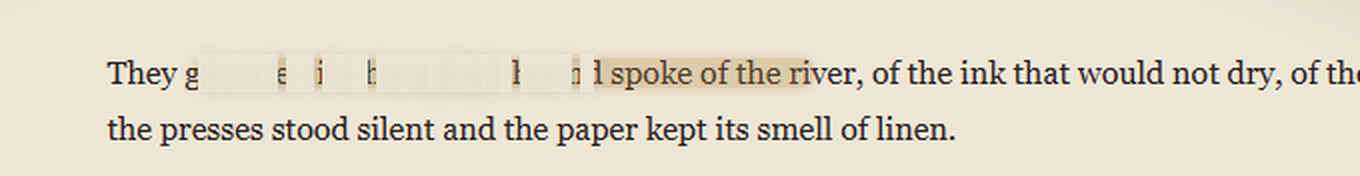
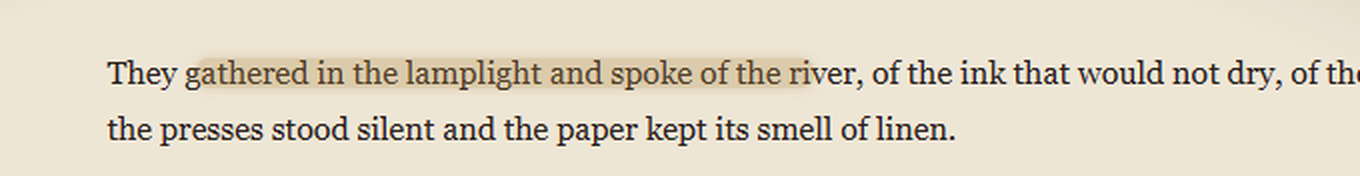
fix(selection): 逐字层去重、盖纸出血、字体逐项抄；补稳态预览图
- 同一格只留一个 span（byCell）：两次选区变化落在同一格时旧的要先撤掉，
  否则同一处会画两层字，新盖纸还会盖掉旧墨，看起来像缺字
- 盖纸四周出血 1–2px：字母的墨会溢出它的字宽盒子，不外扩就会在格边留一道
  原字的竖缝，远看像重影（上游按格子画、格子比字宽，所以没这个问题）
- 字体改为逐项复制（fontFamily/fontSize/fontWeight/fontStyle/letterSpacing），
  不用 font 简写：简写一旦解析失败会整条被丢掉，字悄悄换成继承来的字体
- 三点墨的 animation-delay 用 inherit 跟上本字的错峰
- docs/previews/ink-selection.png 换成稳态（洗色）图；说明化开只在 680ms 内发生

Changed region(s): [[0.1235, 0.3125, 0.4632, 0.5114]]

diff --git a/packages/dsh-nocturne/lib/client.js b/packages/dsh-nocturne/lib/client.js
@@ -4,8 +4,8 @@
  * 纸、灯、辉光三层的渲染代码由 tools/build.mjs 从 sample/nocturne-desk.html 抽取；
  * 上游配方来自 Chaosnap/Typewriter-Nocturne（MIT），随包保留其版权行。
  *
- *   核心 2146 行 · 适配 755 行 · 样式 70 行
- *   样张 sample/nocturne-desk.html（134357 bytes）
+ *   核心 2171 行 · 适配 755 行 · 样式 70 行
+ *   样张 sample/nocturne-desk.html（135967 bytes）
  */
 window.__ModuleLoader__.load({
   id: 'dsh-nocturne',
@@ -1527,6 +1527,8 @@ class SelectionInk {
     this.cells = [];
     this.washKey = 'off';
     this.timers = [];
+    /** 同一格只留一个：两次选区变化落在同一格时，旧的要先撤掉，否则会重复叠字。 */
+    this.byCell = new Map();
     this.range = typeof Range === 'function' ? document.createRange() : null;
   }
 
@@ -1583,6 +1585,7 @@ class SelectionInk {
     this.inkEls = [];
     this.cells = [];
     this.wash = [];
+    if (this.byCell) this.byCell.clear();
     this.live = false;
     this.prev = null;
     this.washKey = 'off';
@@ -1714,8 +1717,11 @@ class SelectionInk {
         const hidden = computed.visibility === 'hidden' || computed.display === 'none'
           || Number(computed.opacity) === 0;
         look = hidden ? null : {
-          font: computed.fontStyle + ' ' + computed.fontWeight + ' '
-            + computed.fontSize + ' ' + computed.fontFamily,
+          style: computed.fontStyle,
+          weight: computed.fontWeight,
+          size: computed.fontSize,
+          family: computed.fontFamily,
+          spacing: computed.letterSpacing,
           color: computed.color
         };
         looks.set(holder, look);
@@ -1736,10 +1742,16 @@ class SelectionInk {
         el.style.top = rect.top + 'px';
         el.style.width = rect.width + 'px';
         el.style.height = rect.height + 'px';
-        el.style.font = look.font;
+        el.style.fontFamily = look.family;
+        el.style.fontSize = look.size;
+        el.style.fontWeight = look.weight;
+        el.style.fontStyle = look.style;
+        // letter-spacing 是排版的一部分：少抄一格，后面每个字都会往下漂。
+        if (look.spacing && look.spacing !== 'normal') el.style.letterSpacing = look.spacing;
         el.style.lineHeight = rect.height + 'px';
         el.style.color = look.color;
         el.style.animationDelay = delay;
+        el.dataset.cell = Math.round(rect.left) + ':' + Math.round(rect.top);
         const cover = document.createElement('i');
         cover.className = 'dn-sel-cover';
         cover.style.animationDelay = delay;
@@ -1748,8 +1760,17 @@ class SelectionInk {
         ink.style.animationDelay = delay;
         ink.textContent = char;
         el.append(cover, ink);
+        // 这一格上一轮已经画过就先撤掉：重复的 span 会让字叠两层，
+        // 而且新盖纸会盖掉旧墨，看起来像缺字。
+        const key = Math.round(rect.left) + ':' + Math.round(rect.top);
+        const previous = this.byCell.get(key);
+        if (previous) {
+          previous.remove();
+          this.inkEls = this.inkEls.filter((item) => item.el !== previous);
+        }
         this.layer.appendChild(el);
         this.inkEls.push({el: el});
+        this.byCell.set(key, el);
         made.push(el);
         count += 1;
       }
@@ -1762,7 +1783,11 @@ class SelectionInk {
   schedule(made) {
     const life = SELECT_DISSOLVE_MS + SELECT_MAX_STAGGER_MS + 120;
     const timer = setTimeout(() => {
-      for (const el of made) el.remove();
+      for (const el of made) {
+        el.remove();
+        const key = el.dataset.cell;
+        if (key && this.byCell.get(key) === el) this.byCell.delete(key);
+      }
       this.inkEls = this.inkEls.filter((item) => made.indexOf(item.el) < 0);
       this.cells = this.inkEls.map((item) => item.el);
       this.timers = this.timers.filter((id) => id !== timer);
@@ -2161,7 +2186,7 @@ class ScrollClip {
   }
 }
 
-const CSS_TEXT = "/* dsh-nocturne —— 纸的配色由 token 决定，材质由 canvas 决定。\n   这里只做两件事：把 DSH 的语义别名换成纸与墨；给两片 canvas 找位置。\n   颜色取自 Typewriter-Nocturne 的 papers.ts（MIT）。 */\n\nhtml, :root {\n  --dn-paper: #efdfbd;\n  --dn-ink: #2a2019;\n  --dn-ink-muted: #6b5f52;\n  --dn-room: #241a14;\n  --dn-room-edge: #070504;\n  --dn-gilt: #6f5420;\n  --dn-light-rgb: 255 210 154;\n  --dn-metal-lo: #5e431c;\n  --dn-metal-hi: #f3dca4;\n  --dn-metal: #b8904c;\n  /* 缮写室面板用到的字族：宿主不一定有，给出与样张一致的回落链 */\n  --font-ui: \"EB Garamond\", \"Iowan Old Style\", Palatino, Georgia, serif;\n  --font-display: \"Cormorant Garamond\", \"EB Garamond\", Georgia, serif;\n  --font-mono: var(--dsh-font-family-code, ui-monospace, monospace);\n\n  /* 配色 token 不写在这里：运行时由 applyTokens() 内联写入并带 !important。\n     写在这里会反过来压过内联更新，导致换纸只换画布、不换界面底色。 */\n\n  /* 字体：衬线正文，等宽复古代码。字体文件不随包分发，走系统栈回落。 */\n  --dsh-font-family-text: \"EB Garamond\", \"Iowan Old Style\", \"Palatino Linotype\", Palatino,\n    Georgia, \"Source Han Serif SC\", \"Songti SC\", \"Noto Serif CJK SC\", serif !important;\n  --dsh-font-family-code: \"Courier Prime\", \"IBM Plex Mono\", \"Courier New\",\n    \"DejaVu Sans Mono\", ui-monospace, monospace !important;\n}\n\n/* 整扇窗就是这张纸。没被画到的地方也必须落到纸色上——否则留给 `html` 的\n   默认底会把正文区露成黑洞（第一次装载测试就是这么翻车的）。 */\n/* 纸的底色挂在 --dn-sheet 上：接管配色时是纸色，只让位时是 transparent（宿主自己画）。 */\nhtml, body { background: var(--dn-sheet, transparent) !important; }\n\n/* 两片 canvas：直接挂在 body 下，不能包一层带 z-index 的容器——\n   那会给它们造一个隔离栈，multiply 就再也合不到页面上（实测见 docs/nocturne.md）。 */\ncanvas[data-dn=\"paper\"], canvas[data-dn=\"glow\"] {\n  position: fixed;\n  left: 0;\n  top: 0;\n  display: block;\n  pointer-events: none;\n  transform-origin: 0 0;\n}\ncanvas[data-dn=\"paper\"] {\n  mix-blend-mode: multiply;\n  z-index: 2147482000;\n}\ncanvas[data-dn=\"glow\"] {\n  mix-blend-mode: screen;\n  z-index: 2147482001;\n}\n\n/* 纸的四边压暗，给出\"一张纸\"的厚度；比 TN 的 #vignette 更贴边，\n   因为这里的纸是整扇窗。 */\nhtml::after {\n  content: \"\";\n  position: fixed;\n  inset: 0;\n  z-index: 2147482002;\n  pointer-events: none;\n  background: radial-gradient(ellipse 92% 88% at 50% 46%, transparent 52%, rgba(0, 0, 0, .42) 100%);\n}\n\n/* 缮写室是\"器物\"，不是纸上的字：它悬在纸光之上，不被灯压暗——\n   与上游一致，Studio 属于窗框而不属于纸面。 */\n.dn-studio { z-index: 2147483000; }\n.dn-handle { z-index: 2147482999; opacity: .55; }\n\n\n.dn-caret{\n  position:fixed; left:0; top:0; z-index: 2147481999;\n  display:none; pointer-events:none; will-change:transform;\n  --dn-ink-size:16px;\n  --dn-ink-weight:400;\n}\n.dn-ink-blot,\n.dn-ink-halo{\n  position:absolute; inset:7% 0.5px;\n  background:var(--dn-caret-ink, #3a2c20);\n}\n.dn-ink-blot{\n  border-radius:22% 14% 18% 12% / 12% 20% 10% 18%;\n  box-shadow:\n    inset 0 0 0 .5px rgba(0,0,0,.22),\n    inset 0 0 3px rgba(0,0,0,.28),\n    0 0 1.2px var(--dn-caret-ink, #3a2c20);\n  filter:blur(.3px);\n}\n.dn-ink-halo{\n  border-radius:40%;\n  opacity:0;\n  filter:blur(2.5px);\n}\n.dn-ink-glyph{\n  position:absolute; inset:0;\n  display:flex; align-items:center; justify-content:center;\n  color:var(--dsw-alias-bg-base, #efdfbd);\n  font-family:var(--dsh-font-family-code, ui-monospace, monospace);\n  font-size:var(--dn-ink-size);\n  font-weight:var(--dn-ink-weight);\n  line-height:1; white-space:pre;\n  font-variant-ligatures:none;\n}\n/* 失焦时墨退掉，只留一个淡淡的格子轮廓。 */\n.dn-caret[data-focused=\"false\"] .dn-ink-blot,\n.dn-caret[data-focused=\"false\"] .dn-ink-halo,\n.dn-caret[data-focused=\"false\"] .dn-ink-glyph{ display:none }\n.dn-caret[data-focused=\"false\"]::after{\n  content:\"\"; position:absolute; inset:7% .5px;\n  border:1px solid var(--dn-caret-ink, #3a2c20); border-radius:2px; opacity:.45;\n}\n.dn-caret[data-appearance=\"dark\"] .dn-ink-blot{\n  box-shadow:\n    inset 0 0 0 .5px rgba(255,255,255,.25),\n    inset 0 0 3px rgba(255,255,255,.3),\n    0 0 1.2px var(--dn-caret-ink, #3a2c20);\n}\n/* ── 羽毛笔光标：形状、渐变、摆动、光晕都照搬上游 .tn-quill ─────────────── */\n.dn-quill{\n  position:fixed; left:0; top:0; z-index:1;\n  display:none; pointer-events:none; will-change:transform;\n  --dn-quill-edge:#120e0c;\n  --dn-quill-body:#2b2420;\n  --dn-quill-sheen:#5f5753;\n  --dn-quill-barb:rgba(168,152,138,.42);\n  --dn-quill-rachis:#e4d8c0;\n  --dn-quill-down:rgba(70,60,54,.65);\n  filter:drop-shadow(.8px 1.6px 1px rgba(0,0,0,.3));\n  animation:dn-quill-breathe 1.2s ease-in-out infinite alternate;\n}\n.dn-quill[data-appearance=\"dark\"]{\n  --dn-quill-edge:#9d9485;\n  --dn-quill-body:#ebe4d6;\n  --dn-quill-sheen:#fffdf8;\n  --dn-quill-barb:rgba(140,128,108,.5);\n  --dn-quill-rachis:#fffdf6;\n  --dn-quill-down:rgba(236,229,216,.75);\n}\n.dn-quill svg{display:block; width:100%; height:100%; overflow:visible}\n.dn-quill-sway{transform-box:view-box; transform-origin:0 0; animation:dn-quill-sway 3.4s ease-in-out infinite alternate}\n.dn-quill-vane{fill:url(#dn-quill-vane)}\n.dn-quill-barbs{fill:none; stroke:var(--dn-quill-barb); stroke-width:.28; stroke-linecap:round}\n.dn-quill-rachis{fill:var(--dn-quill-rachis)}\n.dn-quill-rachis-light{fill:none; stroke:#fff; stroke-width:.22; opacity:.55}\n.dn-quill-down{fill:none; stroke:var(--dn-quill-down); stroke-width:.35; stroke-linecap:round}\n.dn-quill-engraving{fill:none; stroke:var(--dn-metal-lo); stroke-width:.3}\n.dn-quill-hole{fill:var(--dn-metal-lo)}\n.dn-quill-shine{fill:#fff; opacity:.2; animation:dn-quill-shine 2.8s ease-in-out infinite}\n.dn-quill-glint{fill:#fff; opacity:0; animation:dn-quill-glint 2.8s ease-in-out infinite}\n.dn-quill[data-focused=\"false\"]{opacity:.4; animation:none}\n.dn-quill[data-focused=\"false\"] .dn-quill-sway,\n.dn-quill[data-focused=\"false\"] .dn-quill-shine,\n.dn-quill[data-focused=\"false\"] .dn-quill-glint{animation:none}\n@keyframes dn-quill-breathe{from{opacity:1} to{opacity:.62}}\n@keyframes dn-quill-sway{from{transform:rotate(-1.6deg)} to{transform:rotate(1.6deg)}}\n@keyframes dn-quill-shine{0%{transform:translateY(0)} 100%{transform:translateY(-46px)}}\n@keyframes dn-quill-glint{\n  0%,72%{opacity:0}\n  80%{opacity:.9}\n  88%{opacity:.15}\n  100%{opacity:0}\n}\n\n/* ── 缮写室 Studio：一张悬在桌上的深色玻璃面板 ─────────────────────────── */\n.dn-studio{\n  position:fixed; z-index:40; top:52px; right:18px;\n  width:296px; max-height:calc(100% - 88px); overflow-y:auto;\n  padding:16px 18px 18px;\n  border:1px solid rgba(176,138,74,.35);\n  border-radius:12px;\n  background:rgba(22,16,12,.9);\n  backdrop-filter:blur(12px);\n  box-shadow:0 24px 60px -20px rgba(0,0,0,.8);\n  color:#f1e6cf;\n  font-family:var(--font-ui);\n  display:none;\n}\n.dn-studio[data-open=\"true\"]{display:block}\n.dn-studio .eyebrow{\n  font-variant:small-caps; letter-spacing:.2em; font-size:11px;\n  color:rgba(241,230,207,.62);\n}\n.dn-studio h2{\n  margin:0 0 10px;\n  font-family:var(--font-display); font-style:italic; font-weight:500;\n  font-size:23px; line-height:1.2; text-wrap:balance;\n}\n.dn-studio .group{\n  margin-top:13px; padding-top:11px;\n  border-top:1px solid rgba(176,138,74,.28);\n  display:grid; gap:9px;\n}\n.dn-studio .group h3{\n  margin:0; font-weight:500; font-style:italic; font-size:16px;\n}\n.dn-studio .grid{display:grid; grid-template-columns:repeat(3, 1fr); gap:5px}\n.dn-studio .grid.two{grid-template-columns:repeat(2, 1fr)}\n.dn-studio button.choice{\n  padding:5px 4px 6px;\n  border:1px solid rgba(176,138,74,.3); border-radius:6px;\n  background:transparent; color:#f1e6cf;\n  font-family:var(--font-ui); font-size:12.5px; line-height:1.2;\n  cursor:pointer; display:grid; gap:4px; justify-items:stretch;\n}\n.dn-studio button.choice[aria-pressed=\"true\"]{\n  border-color:#b08a4a;\n  box-shadow:inset 0 0 0 1px #b08a4a;\n}\n.dn-studio button.choice:focus-visible{outline:1px dotted #b08a4a; outline-offset:2px}\n.dn-studio .swatch{\n  height:20px; border-radius:3px;\n  box-shadow:inset 0 0 0 1px rgba(0,0,0,.35);\n}\n.dn-studio .slider{display:grid; gap:2px}\n.dn-studio .head{display:flex; justify-content:space-between; align-items:center}\n.dn-studio .label,\n.dn-studio .value{\n  font-family:var(--dsh-font-family-code, ui-monospace, monospace); font-size:10.5px;\n  letter-spacing:.14em; text-transform:uppercase;\n  color:rgba(241,230,207,.62); font-variant-numeric:tabular-nums;\n}\n.dn-studio .value{color:#f1e6cf; letter-spacing:.04em}\n.dn-studio input[type=\"range\"]{\n  -webkit-appearance:none; appearance:none;\n  width:100%; height:16px; margin:0; cursor:pointer; background:\n    linear-gradient(rgba(241,230,207,.62), rgba(241,230,207,.62)) 0 50% / 100% 1px no-repeat,\n    repeating-linear-gradient(90deg, rgba(241,230,207,.62) 0 1px, transparent 1px 10%) 0 50% / 100% 8px no-repeat;\n}\n.dn-studio input[type=\"range\"]::-webkit-slider-thumb{\n  -webkit-appearance:none; width:9px; height:16px; border-radius:2px;\n  border:1px solid #5e431c;\n  background:linear-gradient(90deg, #f3dca4, #b8904c 55%, #5e431c);\n  box-shadow:0 1px 3px rgba(0,0,0,.5);\n}\n.dn-studio input[type=\"range\"]:focus-visible{outline:1px dotted #b08a4a; outline-offset:3px}\n.dn-studio .switch{display:flex; justify-content:space-between; align-items:center}\n.dn-studio .toggle{\n  position:relative; width:36px; height:19px; flex:none;\n  border-radius:10px; border:1px solid rgba(176,138,74,.3);\n  background:transparent; cursor:pointer; padding:0;\n}\n.dn-studio .toggle::after{\n  content:\"\"; position:absolute; top:2px; left:2px;\n  width:13px; height:13px; border-radius:50%;\n  background:rgba(241,230,207,.62);\n  transition:transform 140ms ease;\n}\n.dn-studio .toggle[aria-checked=\"true\"]{border-color:#b08a4a; background:rgba(255,215,154,.12)}\n.dn-studio .toggle[aria-checked=\"true\"]::after{\n  transform:translateX(17px);\n  background:radial-gradient(circle at 35% 35%, #f3dca4, #b8904c 60%, #5e431c);\n}\n.dn-studio button.reset{\n  width:100%; padding:6px 8px;\n  border:1px solid rgba(176,138,74,.45); border-radius:6px;\n  background:rgba(255,215,154,.1); color:#f3dca4;\n  font-family:var(--font-ui); font-size:13px; cursor:pointer;\n}\n.dn-studio button.reset:hover{background:rgba(255,215,154,.18)}\n.dn-studio button.reset:focus-visible{outline:1px dotted #b08a4a; outline-offset:2px}\n.dn-studio .note{\n  margin:0; font-size:12px; line-height:1.5;\n  color:rgba(241,230,207,.55);\n}\n.dn-studio .close{\n  position:absolute; top:10px; right:10px;\n  width:22px; height:22px; display:grid; place-items:center;\n  border:1px solid transparent; border-radius:5px;\n  background:transparent; color:rgba(241,230,207,.62);\n  font-size:15px; line-height:1; cursor:pointer;\n}\n.dn-studio .close:hover{color:#f1e6cf; border-color:rgba(176,138,74,.4)}\n\n/* 右下角那个把手：平时很淡，悬停才亮起来 */\n.dn-handle{\n  position:fixed; z-index:39; right:18px; bottom:16px;\n  display:flex; align-items:center; gap:7px;\n  padding:7px 11px;\n  border:1px solid rgba(176,138,74,.32); border-radius:8px;\n  background:rgba(22,16,12,.9); backdrop-filter:blur(12px);\n  color:rgba(241,230,207,.66);\n  font-family:var(--dsh-font-family-code, ui-monospace, monospace); font-size:10.5px;\n  letter-spacing:.16em; text-transform:uppercase;\n  cursor:pointer; opacity:.4;\n  transition:opacity 200ms ease;\n}\n.dn-handle:hover,.dn-handle:focus-visible{opacity:1}\n.dn-handle[aria-expanded=\"true\"]{opacity:0; pointer-events:none}\n.dn-handle:focus-visible{outline:1px dotted #b08a4a; outline-offset:2px}\n.dn-handle svg{width:13px; height:13px; fill:none; stroke:currentColor; stroke-width:1.3; stroke-linecap:round}\n\n@media (max-width:720px){\n  .dn-studio{left:14px; right:14px; width:auto; top:auto; bottom:62px; max-height:52%}\n}\n@media (prefers-reduced-motion:reduce){\n  .dn-quill,.dn-quill-sway,.dn-quill-shine,.dn-quill-glint{animation:none}\n  .dn-handle,.dn-studio .toggle::after{transition:none}\n}\n\n\n/* ── 选区：墨水溶解（上游 selection-layer.ts 的 DOM 版） ────────────────\n   ink    ：原生的平涂高亮隐去，改成洗色 + 逐字化开的墨\n   classic：留浏览器的平涂高亮，只是把颜色换成主题的选色 */\nhtml[data-dn-sel=\"ink\"] ::selection{ background:transparent !important }\nhtml[data-dn-sel=\"classic\"] ::selection{ background:var(--dn-wash, rgba(52, 64, 112, .2)); color:inherit }\nhtml[data-dn-sel=\"classic\"]::-moz-selection{ background:var(--dn-wash, rgba(52, 64, 112, .2)); color:inherit }\n\n/* 选区层：铺在正文之上、纸光之下——z-index 与羽毛笔同档，所以灯会把洗色一起照亮，\n   洗色才像洇进纸里的墨，而不是浮在纸上的一块色片。\n   动画全部交给 CSS：拖动时主线程不必逐帧画。 */\n.dn-select{ position:fixed; left:0; top:0; z-index:1; pointer-events:none; overflow:visible }\n.dn-sel-wash{\n  position:absolute; display:block;\n  border-radius:9px;\n  background:var(--dn-wash, rgba(52, 64, 112, .2));\n  box-shadow:0 0 6px var(--dn-wash, rgba(52, 64, 112, .2));\n}\n.dn-sel{\n  position:absolute; display:block; white-space:pre; overflow:visible;\n  transform-origin:50% 50%;\n}\n/* 盖纸：先把这一格的字压住，末段再让开。 */\n.dn-sel-cover{\n  position:absolute; inset:0;\n  background:var(--dn-paper, #efdfbd);\n  opacity:0;\n  animation:dn-sel-cover 680ms ease-in-out both;\n}\n/* 墨：放大、虚化、淡到 15%，再聚拢复原。三段比例照上游 30 / 50 / 70。 */\n.dn-sel-ink{\n  position:relative; display:block; white-space:pre;\n  font:inherit; color:inherit;\n  animation:dn-sel-ink 680ms ease-in-out both;\n}\n/* 三点墨：靠一个伪元素的 box-shadow 画出三颗，随 transform 一起散开又回来。 */\n.dn-sel-ink::after{\n  content:\"\"; position:absolute; left:50%; top:50%;\n  width:1.4px; height:1.4px; margin:-.7px 0 0 -.7px;\n  border-radius:50%; background:currentColor;\n  box-shadow:7px 2px 0 currentColor, -5px 6px 0 currentColor, 2px -7px 0 currentColor;\n  opacity:0;\n  animation:dn-sel-speck 680ms ease-in-out both;\n}\n@keyframes dn-sel-cover{ 0%{opacity:0} 30%{opacity:1} 70%{opacity:1} 100%{opacity:0} }\n@keyframes dn-sel-ink{\n  0%{transform:scale(1); filter:blur(0); opacity:1}\n  50%{transform:scale(1.18); filter:blur(5px); opacity:.15}\n  100%{transform:scale(1); filter:blur(0); opacity:1}\n}\n@keyframes dn-sel-speck{\n  0%{transform:scale(0); opacity:0}\n  50%{transform:scale(1); opacity:.55}\n  100%{transform:scale(0); opacity:0}\n}\n@media (prefers-reduced-motion:reduce){ .dn-sel{ display:none } }\n\n/* ── 纸夹：一枚 Gem 夹夹在纸的右缘 ────────────────────────────────────\n   外圈在纸前，内舌在纸后（只留下压住纸面的一道痕），弯头探出纸外。\n   金属丝按\"上左受光\"的管状上色：暗边 + 本体 + 沿光侧的高光。 */\n.dn-scroll{\n  position:fixed; left:0; top:0;\n  touch-action:none; cursor:grab; will-change:transform;\n}\n.dn-scroll[hidden]{ display:none }\n.dn-scroll:active{ cursor:grabbing }\n.dn-scroll:focus-visible{ outline:1px dotted var(--dn-metal, #b8904c); outline-offset:3px }\n.dn-scroll-clip svg{ display:block; width:100%; height:100%; overflow:visible }\n.dn-scroll-clip path{ fill:none; stroke-linecap:round; stroke-linejoin:round }\n.dn-clip-edge{ stroke-width:3.3 }\n.dn-clip-body{ stroke-width:2.6 }\n.dn-clip-light{ stroke-width:.9; opacity:.9 }\n.dn-clip-glint{ stroke:#fff; stroke-width:.55; stroke-dasharray:1.6 11 .8 17; opacity:.85 }\n.dn-clip-shadow{ stroke:rgba(28,18,8,.42); stroke-width:3; transform:translate(1px,1.9px) }\n.dn-clip-pressed{ stroke:rgba(40,28,16,.07); stroke-width:2.2 }\n.dn-scroll[data-appearance=\"dark\"] .dn-clip-shadow{ stroke:rgba(0,0,0,.62) }\n.dn-scroll[data-appearance=\"dark\"] .dn-clip-pressed{ stroke:rgba(255,255,255,.05) }\n.dn-scroll-bar{\n  border-radius:999px;\n  background:rgba(255,255,255,.92);\n  box-shadow:0 0 0 1px rgba(0,0,0,.08), 0 2px 6px rgba(0,0,0,.25);\n}\n.dn-scroll[data-appearance=\"dark\"].dn-scroll-bar{ background:rgba(255,255,255,.75) }\n\n/* 容器的原生滚条让位给纸夹；滚轮、键盘、拖动都还在。 */\n[data-dn-scroll=\"custom\"]{ scrollbar-width:none; -ms-overflow-style:none }\n[data-dn-scroll=\"custom\"]::-webkit-scrollbar{ width:0; height:0 }\n";
+const CSS_TEXT = "/* dsh-nocturne —— 纸的配色由 token 决定，材质由 canvas 决定。\n   这里只做两件事：把 DSH 的语义别名换成纸与墨；给两片 canvas 找位置。\n   颜色取自 Typewriter-Nocturne 的 papers.ts（MIT）。 */\n\nhtml, :root {\n  --dn-paper: #efdfbd;\n  --dn-ink: #2a2019;\n  --dn-ink-muted: #6b5f52;\n  --dn-room: #241a14;\n  --dn-room-edge: #070504;\n  --dn-gilt: #6f5420;\n  --dn-light-rgb: 255 210 154;\n  --dn-metal-lo: #5e431c;\n  --dn-metal-hi: #f3dca4;\n  --dn-metal: #b8904c;\n  /* 缮写室面板用到的字族：宿主不一定有，给出与样张一致的回落链 */\n  --font-ui: \"EB Garamond\", \"Iowan Old Style\", Palatino, Georgia, serif;\n  --font-display: \"Cormorant Garamond\", \"EB Garamond\", Georgia, serif;\n  --font-mono: var(--dsh-font-family-code, ui-monospace, monospace);\n\n  /* 配色 token 不写在这里：运行时由 applyTokens() 内联写入并带 !important。\n     写在这里会反过来压过内联更新，导致换纸只换画布、不换界面底色。 */\n\n  /* 字体：衬线正文，等宽复古代码。字体文件不随包分发，走系统栈回落。 */\n  --dsh-font-family-text: \"EB Garamond\", \"Iowan Old Style\", \"Palatino Linotype\", Palatino,\n    Georgia, \"Source Han Serif SC\", \"Songti SC\", \"Noto Serif CJK SC\", serif !important;\n  --dsh-font-family-code: \"Courier Prime\", \"IBM Plex Mono\", \"Courier New\",\n    \"DejaVu Sans Mono\", ui-monospace, monospace !important;\n}\n\n/* 整扇窗就是这张纸。没被画到的地方也必须落到纸色上——否则留给 `html` 的\n   默认底会把正文区露成黑洞（第一次装载测试就是这么翻车的）。 */\n/* 纸的底色挂在 --dn-sheet 上：接管配色时是纸色，只让位时是 transparent（宿主自己画）。 */\nhtml, body { background: var(--dn-sheet, transparent) !important; }\n\n/* 两片 canvas：直接挂在 body 下，不能包一层带 z-index 的容器——\n   那会给它们造一个隔离栈，multiply 就再也合不到页面上（实测见 docs/nocturne.md）。 */\ncanvas[data-dn=\"paper\"], canvas[data-dn=\"glow\"] {\n  position: fixed;\n  left: 0;\n  top: 0;\n  display: block;\n  pointer-events: none;\n  transform-origin: 0 0;\n}\ncanvas[data-dn=\"paper\"] {\n  mix-blend-mode: multiply;\n  z-index: 2147482000;\n}\ncanvas[data-dn=\"glow\"] {\n  mix-blend-mode: screen;\n  z-index: 2147482001;\n}\n\n/* 纸的四边压暗，给出\"一张纸\"的厚度；比 TN 的 #vignette 更贴边，\n   因为这里的纸是整扇窗。 */\nhtml::after {\n  content: \"\";\n  position: fixed;\n  inset: 0;\n  z-index: 2147482002;\n  pointer-events: none;\n  background: radial-gradient(ellipse 92% 88% at 50% 46%, transparent 52%, rgba(0, 0, 0, .42) 100%);\n}\n\n/* 缮写室是\"器物\"，不是纸上的字：它悬在纸光之上，不被灯压暗——\n   与上游一致，Studio 属于窗框而不属于纸面。 */\n.dn-studio { z-index: 2147483000; }\n.dn-handle { z-index: 2147482999; opacity: .55; }\n\n\n.dn-caret{\n  position:fixed; left:0; top:0; z-index: 2147481999;\n  display:none; pointer-events:none; will-change:transform;\n  --dn-ink-size:16px;\n  --dn-ink-weight:400;\n}\n.dn-ink-blot,\n.dn-ink-halo{\n  position:absolute; inset:7% 0.5px;\n  background:var(--dn-caret-ink, #3a2c20);\n}\n.dn-ink-blot{\n  border-radius:22% 14% 18% 12% / 12% 20% 10% 18%;\n  box-shadow:\n    inset 0 0 0 .5px rgba(0,0,0,.22),\n    inset 0 0 3px rgba(0,0,0,.28),\n    0 0 1.2px var(--dn-caret-ink, #3a2c20);\n  filter:blur(.3px);\n}\n.dn-ink-halo{\n  border-radius:40%;\n  opacity:0;\n  filter:blur(2.5px);\n}\n.dn-ink-glyph{\n  position:absolute; inset:0;\n  display:flex; align-items:center; justify-content:center;\n  color:var(--dsw-alias-bg-base, #efdfbd);\n  font-family:var(--dsh-font-family-code, ui-monospace, monospace);\n  font-size:var(--dn-ink-size);\n  font-weight:var(--dn-ink-weight);\n  line-height:1; white-space:pre;\n  font-variant-ligatures:none;\n}\n/* 失焦时墨退掉，只留一个淡淡的格子轮廓。 */\n.dn-caret[data-focused=\"false\"] .dn-ink-blot,\n.dn-caret[data-focused=\"false\"] .dn-ink-halo,\n.dn-caret[data-focused=\"false\"] .dn-ink-glyph{ display:none }\n.dn-caret[data-focused=\"false\"]::after{\n  content:\"\"; position:absolute; inset:7% .5px;\n  border:1px solid var(--dn-caret-ink, #3a2c20); border-radius:2px; opacity:.45;\n}\n.dn-caret[data-appearance=\"dark\"] .dn-ink-blot{\n  box-shadow:\n    inset 0 0 0 .5px rgba(255,255,255,.25),\n    inset 0 0 3px rgba(255,255,255,.3),\n    0 0 1.2px var(--dn-caret-ink, #3a2c20);\n}\n/* ── 羽毛笔光标：形状、渐变、摆动、光晕都照搬上游 .tn-quill ─────────────── */\n.dn-quill{\n  position:fixed; left:0; top:0; z-index:1;\n  display:none; pointer-events:none; will-change:transform;\n  --dn-quill-edge:#120e0c;\n  --dn-quill-body:#2b2420;\n  --dn-quill-sheen:#5f5753;\n  --dn-quill-barb:rgba(168,152,138,.42);\n  --dn-quill-rachis:#e4d8c0;\n  --dn-quill-down:rgba(70,60,54,.65);\n  filter:drop-shadow(.8px 1.6px 1px rgba(0,0,0,.3));\n  animation:dn-quill-breathe 1.2s ease-in-out infinite alternate;\n}\n.dn-quill[data-appearance=\"dark\"]{\n  --dn-quill-edge:#9d9485;\n  --dn-quill-body:#ebe4d6;\n  --dn-quill-sheen:#fffdf8;\n  --dn-quill-barb:rgba(140,128,108,.5);\n  --dn-quill-rachis:#fffdf6;\n  --dn-quill-down:rgba(236,229,216,.75);\n}\n.dn-quill svg{display:block; width:100%; height:100%; overflow:visible}\n.dn-quill-sway{transform-box:view-box; transform-origin:0 0; animation:dn-quill-sway 3.4s ease-in-out infinite alternate}\n.dn-quill-vane{fill:url(#dn-quill-vane)}\n.dn-quill-barbs{fill:none; stroke:var(--dn-quill-barb); stroke-width:.28; stroke-linecap:round}\n.dn-quill-rachis{fill:var(--dn-quill-rachis)}\n.dn-quill-rachis-light{fill:none; stroke:#fff; stroke-width:.22; opacity:.55}\n.dn-quill-down{fill:none; stroke:var(--dn-quill-down); stroke-width:.35; stroke-linecap:round}\n.dn-quill-engraving{fill:none; stroke:var(--dn-metal-lo); stroke-width:.3}\n.dn-quill-hole{fill:var(--dn-metal-lo)}\n.dn-quill-shine{fill:#fff; opacity:.2; animation:dn-quill-shine 2.8s ease-in-out infinite}\n.dn-quill-glint{fill:#fff; opacity:0; animation:dn-quill-glint 2.8s ease-in-out infinite}\n.dn-quill[data-focused=\"false\"]{opacity:.4; animation:none}\n.dn-quill[data-focused=\"false\"] .dn-quill-sway,\n.dn-quill[data-focused=\"false\"] .dn-quill-shine,\n.dn-quill[data-focused=\"false\"] .dn-quill-glint{animation:none}\n@keyframes dn-quill-breathe{from{opacity:1} to{opacity:.62}}\n@keyframes dn-quill-sway{from{transform:rotate(-1.6deg)} to{transform:rotate(1.6deg)}}\n@keyframes dn-quill-shine{0%{transform:translateY(0)} 100%{transform:translateY(-46px)}}\n@keyframes dn-quill-glint{\n  0%,72%{opacity:0}\n  80%{opacity:.9}\n  88%{opacity:.15}\n  100%{opacity:0}\n}\n\n/* ── 缮写室 Studio：一张悬在桌上的深色玻璃面板 ─────────────────────────── */\n.dn-studio{\n  position:fixed; z-index:40; top:52px; right:18px;\n  width:296px; max-height:calc(100% - 88px); overflow-y:auto;\n  padding:16px 18px 18px;\n  border:1px solid rgba(176,138,74,.35);\n  border-radius:12px;\n  background:rgba(22,16,12,.9);\n  backdrop-filter:blur(12px);\n  box-shadow:0 24px 60px -20px rgba(0,0,0,.8);\n  color:#f1e6cf;\n  font-family:var(--font-ui);\n  display:none;\n}\n.dn-studio[data-open=\"true\"]{display:block}\n.dn-studio .eyebrow{\n  font-variant:small-caps; letter-spacing:.2em; font-size:11px;\n  color:rgba(241,230,207,.62);\n}\n.dn-studio h2{\n  margin:0 0 10px;\n  font-family:var(--font-display); font-style:italic; font-weight:500;\n  font-size:23px; line-height:1.2; text-wrap:balance;\n}\n.dn-studio .group{\n  margin-top:13px; padding-top:11px;\n  border-top:1px solid rgba(176,138,74,.28);\n  display:grid; gap:9px;\n}\n.dn-studio .group h3{\n  margin:0; font-weight:500; font-style:italic; font-size:16px;\n}\n.dn-studio .grid{display:grid; grid-template-columns:repeat(3, 1fr); gap:5px}\n.dn-studio .grid.two{grid-template-columns:repeat(2, 1fr)}\n.dn-studio button.choice{\n  padding:5px 4px 6px;\n  border:1px solid rgba(176,138,74,.3); border-radius:6px;\n  background:transparent; color:#f1e6cf;\n  font-family:var(--font-ui); font-size:12.5px; line-height:1.2;\n  cursor:pointer; display:grid; gap:4px; justify-items:stretch;\n}\n.dn-studio button.choice[aria-pressed=\"true\"]{\n  border-color:#b08a4a;\n  box-shadow:inset 0 0 0 1px #b08a4a;\n}\n.dn-studio button.choice:focus-visible{outline:1px dotted #b08a4a; outline-offset:2px}\n.dn-studio .swatch{\n  height:20px; border-radius:3px;\n  box-shadow:inset 0 0 0 1px rgba(0,0,0,.35);\n}\n.dn-studio .slider{display:grid; gap:2px}\n.dn-studio .head{display:flex; justify-content:space-between; align-items:center}\n.dn-studio .label,\n.dn-studio .value{\n  font-family:var(--dsh-font-family-code, ui-monospace, monospace); font-size:10.5px;\n  letter-spacing:.14em; text-transform:uppercase;\n  color:rgba(241,230,207,.62); font-variant-numeric:tabular-nums;\n}\n.dn-studio .value{color:#f1e6cf; letter-spacing:.04em}\n.dn-studio input[type=\"range\"]{\n  -webkit-appearance:none; appearance:none;\n  width:100%; height:16px; margin:0; cursor:pointer; background:\n    linear-gradient(rgba(241,230,207,.62), rgba(241,230,207,.62)) 0 50% / 100% 1px no-repeat,\n    repeating-linear-gradient(90deg, rgba(241,230,207,.62) 0 1px, transparent 1px 10%) 0 50% / 100% 8px no-repeat;\n}\n.dn-studio input[type=\"range\"]::-webkit-slider-thumb{\n  -webkit-appearance:none; width:9px; height:16px; border-radius:2px;\n  border:1px solid #5e431c;\n  background:linear-gradient(90deg, #f3dca4, #b8904c 55%, #5e431c);\n  box-shadow:0 1px 3px rgba(0,0,0,.5);\n}\n.dn-studio input[type=\"range\"]:focus-visible{outline:1px dotted #b08a4a; outline-offset:3px}\n.dn-studio .switch{display:flex; justify-content:space-between; align-items:center}\n.dn-studio .toggle{\n  position:relative; width:36px; height:19px; flex:none;\n  border-radius:10px; border:1px solid rgba(176,138,74,.3);\n  background:transparent; cursor:pointer; padding:0;\n}\n.dn-studio .toggle::after{\n  content:\"\"; position:absolute; top:2px; left:2px;\n  width:13px; height:13px; border-radius:50%;\n  background:rgba(241,230,207,.62);\n  transition:transform 140ms ease;\n}\n.dn-studio .toggle[aria-checked=\"true\"]{border-color:#b08a4a; background:rgba(255,215,154,.12)}\n.dn-studio .toggle[aria-checked=\"true\"]::after{\n  transform:translateX(17px);\n  background:radial-gradient(circle at 35% 35%, #f3dca4, #b8904c 60%, #5e431c);\n}\n.dn-studio button.reset{\n  width:100%; padding:6px 8px;\n  border:1px solid rgba(176,138,74,.45); border-radius:6px;\n  background:rgba(255,215,154,.1); color:#f3dca4;\n  font-family:var(--font-ui); font-size:13px; cursor:pointer;\n}\n.dn-studio button.reset:hover{background:rgba(255,215,154,.18)}\n.dn-studio button.reset:focus-visible{outline:1px dotted #b08a4a; outline-offset:2px}\n.dn-studio .note{\n  margin:0; font-size:12px; line-height:1.5;\n  color:rgba(241,230,207,.55);\n}\n.dn-studio .close{\n  position:absolute; top:10px; right:10px;\n  width:22px; height:22px; display:grid; place-items:center;\n  border:1px solid transparent; border-radius:5px;\n  background:transparent; color:rgba(241,230,207,.62);\n  font-size:15px; line-height:1; cursor:pointer;\n}\n.dn-studio .close:hover{color:#f1e6cf; border-color:rgba(176,138,74,.4)}\n\n/* 右下角那个把手：平时很淡，悬停才亮起来 */\n.dn-handle{\n  position:fixed; z-index:39; right:18px; bottom:16px;\n  display:flex; align-items:center; gap:7px;\n  padding:7px 11px;\n  border:1px solid rgba(176,138,74,.32); border-radius:8px;\n  background:rgba(22,16,12,.9); backdrop-filter:blur(12px);\n  color:rgba(241,230,207,.66);\n  font-family:var(--dsh-font-family-code, ui-monospace, monospace); font-size:10.5px;\n  letter-spacing:.16em; text-transform:uppercase;\n  cursor:pointer; opacity:.4;\n  transition:opacity 200ms ease;\n}\n.dn-handle:hover,.dn-handle:focus-visible{opacity:1}\n.dn-handle[aria-expanded=\"true\"]{opacity:0; pointer-events:none}\n.dn-handle:focus-visible{outline:1px dotted #b08a4a; outline-offset:2px}\n.dn-handle svg{width:13px; height:13px; fill:none; stroke:currentColor; stroke-width:1.3; stroke-linecap:round}\n\n@media (max-width:720px){\n  .dn-studio{left:14px; right:14px; width:auto; top:auto; bottom:62px; max-height:52%}\n}\n@media (prefers-reduced-motion:reduce){\n  .dn-quill,.dn-quill-sway,.dn-quill-shine,.dn-quill-glint{animation:none}\n  .dn-handle,.dn-studio .toggle::after{transition:none}\n}\n\n\n/* ── 选区：墨水溶解（上游 selection-layer.ts 的 DOM 版） ────────────────\n   ink    ：原生的平涂高亮隐去，改成洗色 + 逐字化开的墨\n   classic：留浏览器的平涂高亮，只是把颜色换成主题的选色 */\nhtml[data-dn-sel=\"ink\"] ::selection{ background:transparent !important }\nhtml[data-dn-sel=\"classic\"] ::selection{ background:var(--dn-wash, rgba(52, 64, 112, .2)); color:inherit }\nhtml[data-dn-sel=\"classic\"]::-moz-selection{ background:var(--dn-wash, rgba(52, 64, 112, .2)); color:inherit }\n\n/* 选区层：铺在正文之上、纸光之下——z-index 与羽毛笔同档，所以灯会把洗色一起照亮，\n   洗色才像洇进纸里的墨，而不是浮在纸上的一块色片。\n   动画全部交给 CSS：拖动时主线程不必逐帧画。 */\n.dn-select{ position:fixed; left:0; top:0; z-index:1; pointer-events:none; overflow:visible }\n.dn-sel-wash{\n  position:absolute; display:block;\n  border-radius:9px;\n  background:var(--dn-wash, rgba(52, 64, 112, .2));\n  box-shadow:0 0 6px var(--dn-wash, rgba(52, 64, 112, .2));\n}\n.dn-sel{\n  position:absolute; display:block; white-space:pre; overflow:visible;\n  transform-origin:50% 50%;\n}\n/* 盖纸：先把这一格的字压住，末段再让开。\n   四周要出血 1–2px：字母的墨会溢出它的字宽盒子，恰好不外扩就会在格边留下\n   一道原字的竖缝，远看像\"重影\"。上游按格子画、格子比字宽，所以没这个问题。 */\n.dn-sel-cover{\n  position:absolute; inset:-1px -2px;\n  background:var(--dn-paper, #efdfbd);\n  opacity:0;\n  animation:dn-sel-cover 680ms ease-in-out both;\n}\n/* 墨：放大、虚化、淡到 15%，再聚拢复原。三段比例照上游 30 / 50 / 70。 */\n.dn-sel-ink{\n  position:relative; display:block; white-space:pre;\n  font:inherit; color:inherit;\n  animation:dn-sel-ink 680ms ease-in-out both;\n}\n/* 三点墨：靠一个伪元素的 box-shadow 画出三颗，随 transform 一起散开又回来。 */\n.dn-sel-ink::after{\n  content:\"\"; position:absolute; left:50%; top:50%;\n  width:1.4px; height:1.4px; margin:-.7px 0 0 -.7px;\n  border-radius:50%; background:currentColor;\n  box-shadow:7px 2px 0 currentColor, -5px 6px 0 currentColor, 2px -7px 0 currentColor;\n  opacity:0;\n  animation:dn-sel-speck 680ms ease-in-out both;\n  /* 三点墨跟着本字的错峰走：animation 不自继承，但伪元素可以从宿主元素继承这个值。 */\n  animation-delay:inherit;\n}\n@keyframes dn-sel-cover{ 0%{opacity:0} 30%{opacity:1} 70%{opacity:1} 100%{opacity:0} }\n@keyframes dn-sel-ink{\n  0%{transform:scale(1); filter:blur(0); opacity:1}\n  50%{transform:scale(1.18); filter:blur(5px); opacity:.15}\n  100%{transform:scale(1); filter:blur(0); opacity:1}\n}\n@keyframes dn-sel-speck{\n  0%{transform:scale(0); opacity:0}\n  50%{transform:scale(1); opacity:.55}\n  100%{transform:scale(0); opacity:0}\n}\n@media (prefers-reduced-motion:reduce){ .dn-sel{ display:none } }\n\n/* ── 纸夹：一枚 Gem 夹夹在纸的右缘 ────────────────────────────────────\n   外圈在纸前，内舌在纸后（只留下压住纸面的一道痕），弯头探出纸外。\n   金属丝按\"上左受光\"的管状上色：暗边 + 本体 + 沿光侧的高光。 */\n.dn-scroll{\n  position:fixed; left:0; top:0;\n  touch-action:none; cursor:grab; will-change:transform;\n}\n.dn-scroll[hidden]{ display:none }\n.dn-scroll:active{ cursor:grabbing }\n.dn-scroll:focus-visible{ outline:1px dotted var(--dn-metal, #b8904c); outline-offset:3px }\n.dn-scroll-clip svg{ display:block; width:100%; height:100%; overflow:visible }\n.dn-scroll-clip path{ fill:none; stroke-linecap:round; stroke-linejoin:round }\n.dn-clip-edge{ stroke-width:3.3 }\n.dn-clip-body{ stroke-width:2.6 }\n.dn-clip-light{ stroke-width:.9; opacity:.9 }\n.dn-clip-glint{ stroke:#fff; stroke-width:.55; stroke-dasharray:1.6 11 .8 17; opacity:.85 }\n.dn-clip-shadow{ stroke:rgba(28,18,8,.42); stroke-width:3; transform:translate(1px,1.9px) }\n.dn-clip-pressed{ stroke:rgba(40,28,16,.07); stroke-width:2.2 }\n.dn-scroll[data-appearance=\"dark\"] .dn-clip-shadow{ stroke:rgba(0,0,0,.62) }\n.dn-scroll[data-appearance=\"dark\"] .dn-clip-pressed{ stroke:rgba(255,255,255,.05) }\n.dn-scroll-bar{\n  border-radius:999px;\n  background:rgba(255,255,255,.92);\n  box-shadow:0 0 0 1px rgba(0,0,0,.08), 0 2px 6px rgba(0,0,0,.25);\n}\n.dn-scroll[data-appearance=\"dark\"].dn-scroll-bar{ background:rgba(255,255,255,.75) }\n\n/* 容器的原生滚条让位给纸夹；滚轮、键盘、拖动都还在。 */\n[data-dn-scroll=\"custom\"]{ scrollbar-width:none; -ms-overflow-style:none }\n[data-dn-scroll=\"custom\"]::-webkit-scrollbar{ width:0; height:0 }\n";
 
 
 /* ═══════════════════════════════════════════════════════════════════════════

diff --git a/sample/nocturne-desk.html b/sample/nocturne-desk.html
@@ -500,9 +500,11 @@ html[data-dn-sel="classic"]::-moz-selection{ background:var(--wash); color:inher
   position:absolute; display:block; white-space:pre; overflow:visible;
   transform-origin:50% 50%;
 }
-/* 盖纸：先把这一格的字压住，末段再让开。 */
+/* 盖纸：先把这一格的字压住，末段再让开。
+   四周要出血 1–2px：字母的墨会溢出它的字宽盒子，恰好不外扩就会在格边留下
+   一道原字的竖缝，远看像"重影"。上游按格子画、格子比字宽，所以没这个问题。 */
 .dn-sel-cover{
-  position:absolute; inset:0;
+  position:absolute; inset:-1px -2px;
   background:var(--sel-paper);
   opacity:0;
   animation:dn-sel-cover 680ms ease-in-out both;
@@ -521,6 +523,8 @@ html[data-dn-sel="classic"]::-moz-selection{ background:var(--wash); color:inher
   box-shadow:7px 2px 0 currentColor, -5px 6px 0 currentColor, 2px -7px 0 currentColor;
   opacity:0;
   animation:dn-sel-speck 680ms ease-in-out both;
+  /* 三点墨跟着本字的错峰走：animation 不自继承，但伪元素可以从宿主元素继承这个值。 */
+  animation-delay:inherit;
 }
 @keyframes dn-sel-cover{ 0%{opacity:0} 30%{opacity:1} 70%{opacity:1} 100%{opacity:0} }
 @keyframes dn-sel-ink{
@@ -2206,6 +2210,8 @@ class SelectionInk {
     this.cells = [];
     this.washKey = 'off';
     this.timers = [];
+    /** 同一格只留一个：两次选区变化落在同一格时，旧的要先撤掉，否则会重复叠字。 */
+    this.byCell = new Map();
     this.range = typeof Range === 'function' ? document.createRange() : null;
   }
 
@@ -2262,6 +2268,7 @@ class SelectionInk {
     this.inkEls = [];
     this.cells = [];
     this.wash = [];
+    if (this.byCell) this.byCell.clear();
     this.live = false;
     this.prev = null;
     this.washKey = 'off';
@@ -2393,8 +2400,11 @@ class SelectionInk {
         const hidden = computed.visibility === 'hidden' || computed.display === 'none'
           || Number(computed.opacity) === 0;
         look = hidden ? null : {
-          font: computed.fontStyle + ' ' + computed.fontWeight + ' '
-            + computed.fontSize + ' ' + computed.fontFamily,
+          style: computed.fontStyle,
+          weight: computed.fontWeight,
+          size: computed.fontSize,
+          family: computed.fontFamily,
+          spacing: computed.letterSpacing,
           color: computed.color
         };
         looks.set(holder, look);
@@ -2415,10 +2425,16 @@ class SelectionInk {
         el.style.top = rect.top + 'px';
         el.style.width = rect.width + 'px';
         el.style.height = rect.height + 'px';
-        el.style.font = look.font;
+        el.style.fontFamily = look.family;
+        el.style.fontSize = look.size;
+        el.style.fontWeight = look.weight;
+        el.style.fontStyle = look.style;
+        // letter-spacing 是排版的一部分：少抄一格，后面每个字都会往下漂。
+        if (look.spacing && look.spacing !== 'normal') el.style.letterSpacing = look.spacing;
         el.style.lineHeight = rect.height + 'px';
         el.style.color = look.color;
         el.style.animationDelay = delay;
+        el.dataset.cell = Math.round(rect.left) + ':' + Math.round(rect.top);
         const cover = document.createElement('i');
         cover.className = 'dn-sel-cover';
         cover.style.animationDelay = delay;
@@ -2427,8 +2443,17 @@ class SelectionInk {
         ink.style.animationDelay = delay;
         ink.textContent = char;
         el.append(cover, ink);
+        // 这一格上一轮已经画过就先撤掉：重复的 span 会让字叠两层，
+        // 而且新盖纸会盖掉旧墨，看起来像缺字。
+        const key = Math.round(rect.left) + ':' + Math.round(rect.top);
+        const previous = this.byCell.get(key);
+        if (previous) {
+          previous.remove();
+          this.inkEls = this.inkEls.filter((item) => item.el !== previous);
+        }
         this.layer.appendChild(el);
         this.inkEls.push({el: el});
+        this.byCell.set(key, el);
         made.push(el);
         count += 1;
       }
@@ -2441,7 +2466,11 @@ class SelectionInk {
   schedule(made) {
     const life = SELECT_DISSOLVE_MS + SELECT_MAX_STAGGER_MS + 120;
     const timer = setTimeout(() => {
-      for (const el of made) el.remove();
+      for (const el of made) {
+        el.remove();
+        const key = el.dataset.cell;
+        if (key && this.byCell.get(key) === el) this.byCell.delete(key);
+      }
       this.inkEls = this.inkEls.filter((item) => made.indexOf(item.el) < 0);
       this.cells = this.inkEls.map((item) => item.el);
       this.timers = this.timers.filter((id) => id !== timer);
